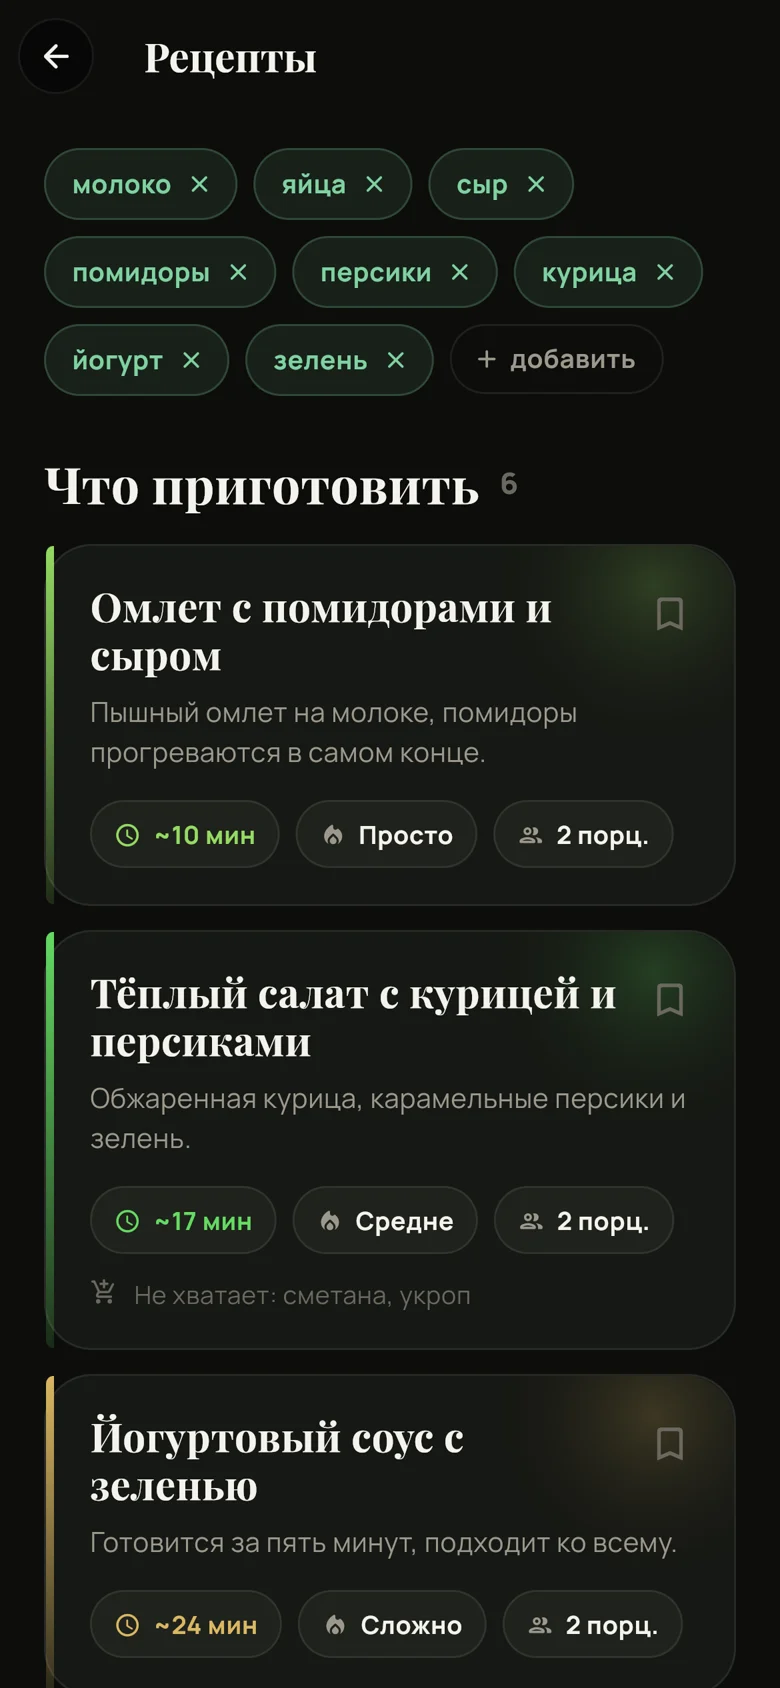
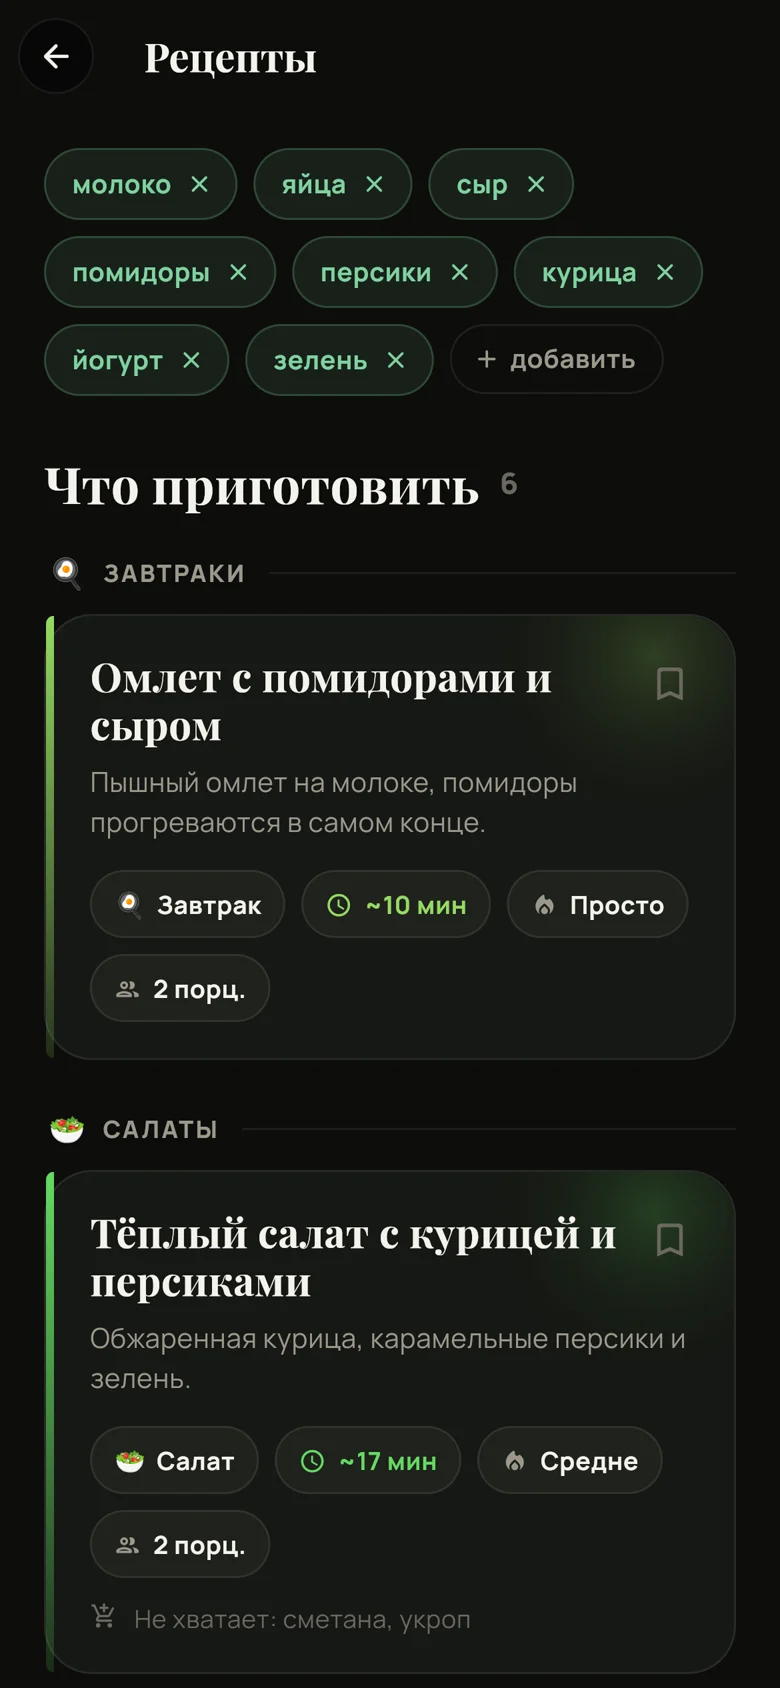
Больше прокрутки на сцене с телефоном
Полотно 620vh → 800vh, а между прокруткой и историей теперь стоит
карта темпа WARP: эпизод после снимка (экран приложения в телефоне)
занимает треть пути вместо пятой части. Шкала прогресса идёт по
реальной прокрутке. Картинка экрана в телефоне пересобрана из
приложения — с разделами меню.

diff --git a/index.html b/index.html
@@ -341,7 +341,7 @@
   .lk{position:absolute;right:12px;top:12px;width:16px;height:16px;color:var(--gold)}
 
   /* Дорожка: единственное, что даёт странице высоту на время сцены. */
-  .track{position:relative;z-index:1;height:620vh;min-height:3600px}
+  .track{position:relative;z-index:1;height:800vh;min-height:4600px}
 
   /* ------------------------------------------------------------
      Секции после сцены: наезжают снизу «занавесом» поверх фона.
@@ -788,7 +788,20 @@
   var DRIFT = 26; // пикселей встречного хода панели
   var MIST = [[-70,90],[10,110],[90,80]];
 
-  var progress = 0, last = -1, narrow = false;
+  /* Темп: доля прокрутки страницы → доля истории. Все метки выше живут в долях
+     истории, а сколько экранов отдать каждому эпизоду, решает эта карта. Момент
+     с телефоном — снимок и экран приложения (история .80–1) — главный: ему отдана
+     треть полотна, чтобы результат успели разглядеть, а не проскочить. */
+  var WARP = [[0, 0], [0.50, 0.60], [0.66, 0.80], [1, 1]];
+  function warp(r){
+    for (var i=1;i<WARP.length;i++){
+      var a = WARP[i-1], b = WARP[i];
+      if (r <= b[0]) return a[1] + (b[1]-a[1]) * (r-a[0]) / (b[0]-a[0]);
+    }
+    return 1;
+  }
+
+  var progress = 0, rawProgress = 0, last = -1, narrow = false;
 
   /* Сцена нарисована в 1280×800: вписываем её в экран масштабом. На десктопе
      холодильник стоит на трети ширины, текст живёт справа. На узких экранах
@@ -848,7 +861,8 @@
   }
 
   function paintOverlay(p){
-    meter.style.transform = 'scaleX(' + f(p) + ')';
+    // Шкала — по реальной прокрутке, иначе она рвётся на стыках темпа.
+    meter.style.transform = 'scaleX(' + f(rawProgress) + ')';
     hint.style.opacity = f(1 - seg(p, .02, .07));
     for (var i=0;i<panels.length;i++){
       var c = CUES[Math.min(i, CUES.length-1)], el = panels[i];
@@ -954,7 +968,8 @@
 
   function readScroll(){
     var max = track.offsetHeight - innerHeight;
-    progress = max > 0 ? clamp(pageYOffset / max, 0, 1) : 0;
+    rawProgress = max > 0 ? clamp(pageYOffset / max, 0, 1) : 0;
+    progress = warp(rawProgress);
     var past = pageYOffset > max + 40;
     chrome.classList.toggle('solid', past);
     panelsEl.classList.toggle('covered', past);
